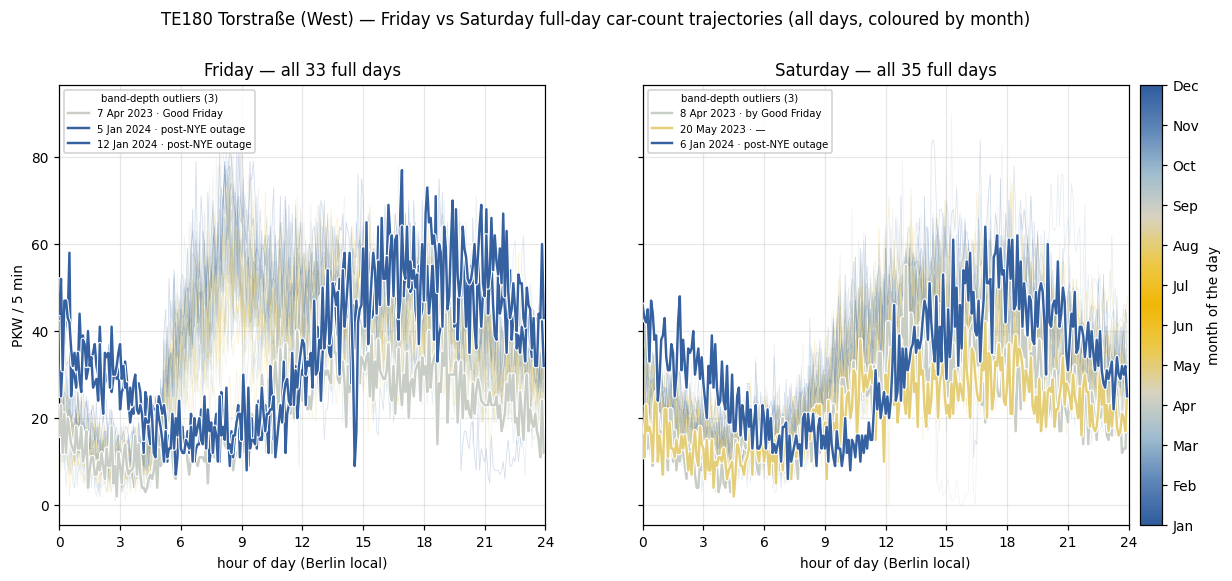
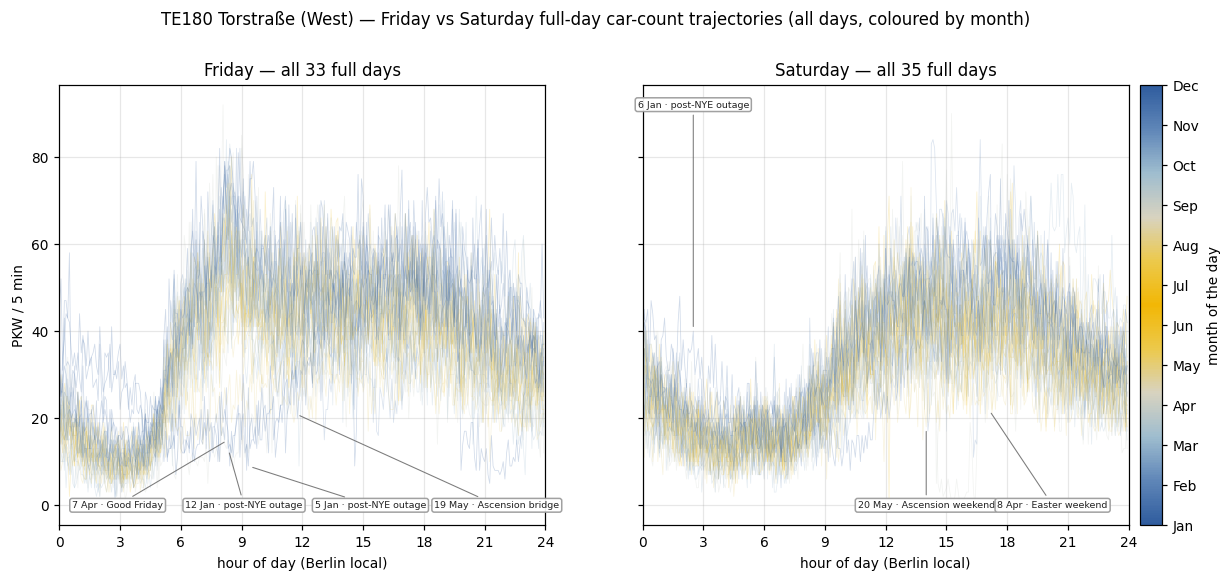
te180-deepdive: fig 15 outliers written+pointed (no restyling); add 19 May, fix May tags
- fig 15: draw every day identically (thin/transparent, no bold or halo); annotate
  the band-depth outliers by writing a margin label and pointing a thin leader at the
  trajectory, spread to stay legible
- add the Ascension bridge Friday 19 May 2023 to the annotations; fix tags so
  Ascension (Thu 18 May) drives "19 May bridge" / "20 May Ascension weekend", and
  Good-Friday-adjacent days read "Easter weekend"
- README: updated fig 15 caption + holiday paragraph (bridge day / long weekend)

diff --git a/berlin-traffic-groundwork/te180-deepdive/analyze.py b/berlin-traffic-groundwork/te180-deepdive/analyze.py
@@ -19,7 +19,6 @@ matplotlib.use("Agg")
 import matplotlib.pyplot as plt
 import matplotlib.dates as mdates
 import matplotlib.cm as cm
-import matplotlib.patheffects as pe
 from matplotlib.colors import Normalize, LinearSegmentedColormap
 
 HERE = os.path.dirname(os.path.abspath(__file__))
@@ -224,16 +223,30 @@ BERLIN_HOLIDAYS = {
     "2023-12-26": "2nd Christmas", "2024-01-01": "New Year",
 }
 
+# Days that are not band-depth outliers but are worth flagging for context.
+EXTRA_ANNOTATE = ("2023-05-19",)   # bridge Friday after Ascension (Thu 18 May 2023)
+
 def _holiday_tag(d):
-    """Short reason-tag for an outlier day: the holiday itself, an adjacent holiday
-    (long weekend), the post-outage return week, or '—' for an ordinary outlier."""
+    """Short reason-tag for a flagged day: the holiday itself, a bridge day / long
+    weekend around a nearby holiday, the post-outage return week, or '—' otherwise."""
     d = pd.Timestamp(d); key = d.strftime("%Y-%m-%d")
     if key in BERLIN_HOLIDAYS:
         return BERLIN_HOLIDAYS[key]
-    for off in (-1, 1):
-        nb = (d + pd.Timedelta(days=off)).strftime("%Y-%m-%d")
-        if nb in BERLIN_HOLIDAYS:
-            return f"by {BERLIN_HOLIDAYS[nb]}"
+    near = None                                         # closest holiday within 3 days
+    for off in range(1, 4):
+        for s in (-1, 1):
+            nb = d + pd.Timedelta(days=s * off)
+            if nb.strftime("%Y-%m-%d") in BERLIN_HOLIDAYS:
+                near = (s * off, BERLIN_HOLIDAYS[nb.strftime("%Y-%m-%d")], nb); break
+        if near:
+            break
+    if near:
+        delta, name, nb = near
+        if name == "Good Friday":
+            return "Easter weekend"
+        if delta == -1 and nb.dayofweek == 3:           # Friday right after a Thursday holiday
+            return f"{name} bridge"
+        return f"{name} weekend"
     if pd.Timestamp("2024-01-02") <= d <= pd.Timestamp("2024-01-13"):
         return "post-NYE outage"
     return "—"
@@ -317,10 +330,45 @@ def fig_weekend_day_bands(df):
     plt.close(fig)
     return counts
 
+def _spread_x(targets, gap, lo=0.10, hi=0.90):
+    """Nudge sorted label x-positions (axes fraction) apart to a minimum gap, in
+    bounds, preserving order — keeps leader labels from overlapping each other."""
+    xs = [min(max(t, lo), hi) for t in targets]
+    for k in range(1, len(xs)):                         # left→right: push right
+        if xs[k] - xs[k - 1] < gap:
+            xs[k] = xs[k - 1] + gap
+    if xs and xs[-1] > hi:                              # overflow: pull left from the right
+        xs[-1] = hi
+        for k in range(len(xs) - 2, -1, -1):
+            if xs[k + 1] - xs[k] < gap:
+                xs[k] = xs[k + 1] - gap
+    return xs
+
+def _annotate_days(a, tod, M, med, idxs, dates):
+    """Write+point at specific trajectories: a boxed date·holiday label in the top or
+    bottom margin (per whether the curve runs above/below the median at its most
+    distinctive point), with a thin leader to that point. No restyling of the lines."""
+    items = []
+    for i in idxs:
+        xi = int(np.argmax(np.abs(M[i] - med)))         # most distinctive moment of the day
+        items.append(dict(i=i, xi=xi, up=M[i][xi] >= med[xi],
+                          label=f"{pd.Timestamp(dates[i]).strftime('%-d %b')} · {_holiday_tag(dates[i])}"))
+    for up, yf, va in [(True, 0.965, "top"), (False, 0.035, "bottom")]:
+        grp = sorted([it for it in items if it["up"] == up], key=lambda it: it["xi"])
+        xs = _spread_x([tod[it["xi"]] / 24.0 for it in grp], gap=0.26)
+        for it, xf in zip(grp, xs):
+            a.annotate(it["label"], xy=(tod[it["xi"]], M[it["i"]][it["xi"]]), xycoords="data",
+                       xytext=(xf, yf), textcoords=a.transAxes, ha="center", va=va,
+                       fontsize=6.2, color="#222",
+                       bbox=dict(boxstyle="round,pad=0.25", fc="white", ec="#999", alpha=0.92),
+                       arrowprops=dict(arrowstyle="-", lw=0.7, color="#666", alpha=0.85,
+                                       shrinkA=2, shrinkB=3))
+
 def fig_weekend_day_spaghetti(df):
     """Companion to fig 14 with the bands and median stripped out: every Friday/
-    Saturday full-day trajectory, all kept, coloured by month — the raw curve set,
-    with the band-depth outlier days emphasised and labelled (holiday status)."""
+    Saturday full-day trajectory, all kept and drawn identically, coloured by month —
+    the raw curve set, with the band-depth outliers (+ flagged extras) written and
+    pointed at."""
     tod = np.arange(SLOTS) / 12.0
     cmap = _month_cmap(); mnorm = Normalize(1, 12)
     fig, ax = plt.subplots(1, 2, figsize=(13, 5.2), sharey=True)
@@ -330,22 +378,16 @@ def fig_weekend_day_spaghetti(df):
         depth = _mbd(M)
         order = np.argsort(-depth)
         k90 = max(2, int(np.ceil(0.90 * len(depth))))
-        outs = order[k90:]                              # band-depth outlier days
-        outs = outs[np.argsort(dates[outs])]            # chronological for the legend
-        # ALL trajectories: thin lines kept very transparent so dense overlap reads as
-        # density rather than whichever curve happens to be drawn last (no z-order hack)
+        med = M[order[0]]
+        # every trajectory drawn the SAME: thin, very transparent, so dense overlap
+        # reads as density rather than whichever curve happens to be drawn last
         for i in range(len(M)):
-            if i in set(outs.tolist()):
-                continue
             a.plot(tod, M[i], color=cmap(mnorm(months[i])), lw=0.5, alpha=0.22, zorder=1)
-        # outlier days: same month colour, bold with a white halo so they lift cleanly
-        # off the faint mass; a small legend names each with its date + holiday status
-        for i in outs:
-            a.plot(tod, M[i], color=cmap(mnorm(months[i])), lw=1.6, alpha=0.97, zorder=4,
-                   path_effects=[pe.Stroke(linewidth=3.0, foreground="white"), pe.Normal()],
-                   label=f"{pd.Timestamp(dates[i]).strftime('%-d %b %Y')} · {_holiday_tag(dates[i])}")
-        a.legend(loc="upper left", fontsize=6.6, framealpha=0.9,
-                 title=f"band-depth outliers ({len(outs)})", title_fontsize=6.6)
+        # flag the band-depth outliers plus any extra context days present on this panel
+        flag = list(order[k90:])
+        flag += [k for k, dd in enumerate(dates)
+                 if pd.Timestamp(dd).strftime("%Y-%m-%d") in EXTRA_ANNOTATE and k not in flag]
+        _annotate_days(a, tod, M, med, flag, dates)
         a.set_title(f"{name} — all {len(M)} full days"); a.set_xlim(0, 24)
         a.set_xticks(range(0, 25, 3)); a.set_xlabel("hour of day (Berlin local)")
     ax[0].set_ylabel("PKW / 5 min")

diff --git a/berlin-traffic-groundwork/te180-deepdive/README.md b/berlin-traffic-groundwork/te180-deepdive/README.md
@@ -151,21 +151,23 @@ raw trajectory set, coloured by month — is below. Lines are held very transpar
 dense overlap reads as *density* rather than whichever day happens to be drawn last:
 
 ![weekend day trajectories](figures/15_weekend_day_trajectories.png)
-*All 33 Fri / 35 Sat full days, no bands, no median, one line per real day, coloured
-by month. The **band-depth outliers** (the days fig 14 drops) are picked out **bold
-with a white halo and named in the legend, tagged by holiday status**. The seasonal
-fan-out is clearest in the evening hours; the overnight troughs and the absence of an
-08:00 commute spike are common to every day regardless of month.*
+*All 33 Fri / 35 Sat full days, no bands, no median — every day drawn identically
+(thin, transparent), coloured by month. The **band-depth outliers** (the days fig 14
+drops), plus the **Ascension bridge Friday 19 May**, are **written in the margin and
+pointed at with a leader**, each tagged by holiday status. The seasonal fan-out is
+clearest in the evening hours; the overnight troughs and the absence of an 08:00
+commute spike are common to every day regardless of month.*
 
-**The outliers are interpretable, and the holidays line up.** Of the six flagged days,
-the two genuinely *low* ones are the **Easter long weekend** — **Good Friday, 07 Apr
-2023** (a Berlin public holiday; the street runs Sunday-quiet) and the **Holy Saturday
-beside it, 08 Apr 2023**. The high-side outliers are all the **first Fri/Sat after the
-sensor woke from its 10.9-day Christmas/New-Year outage** (05/06/12 Jan 2024) —
-return-to-work weeks running hot against the winter norm. The remaining one, **20 May
-2023 (Sat)**, is an ordinary quiet Saturday, no holiday. Worth stating explicitly:
-**Christmas (25–26 Dec) and New Year (1 Jan) cannot appear as outliers at all** —
-both fall *inside* the sensor outage, so no trajectory exists for them.
+**The outliers are interpretable, and the holidays line up.** The genuinely *low*
+days are all **holiday-affected**: **Good Friday, 07 Apr 2023** (a Berlin public
+holiday; the street runs Sunday-quiet), the **Holy Saturday beside it, 08 Apr 2023**
+(Easter weekend), and the **Ascension long weekend** — Ascension fell on **Thu 18 May
+2023**, making **Fri 19 May** a classic *Brückentag* (bridge day) and **Sat 20 May** a
+long-weekend Saturday, both running quiet. The high-side outliers are the **first
+Fri/Sat after the sensor woke from its 10.9-day Christmas/New-Year outage** (05/06/12
+Jan 2024) — return-to-work weeks running hot against the winter norm. Worth stating
+explicitly: **Christmas (25–26 Dec) and New Year (1 Jan) cannot appear as outliers at
+all** — both fall *inside* the sensor outage, so no trajectory exists for them.
 
 ## Statistical view
 
